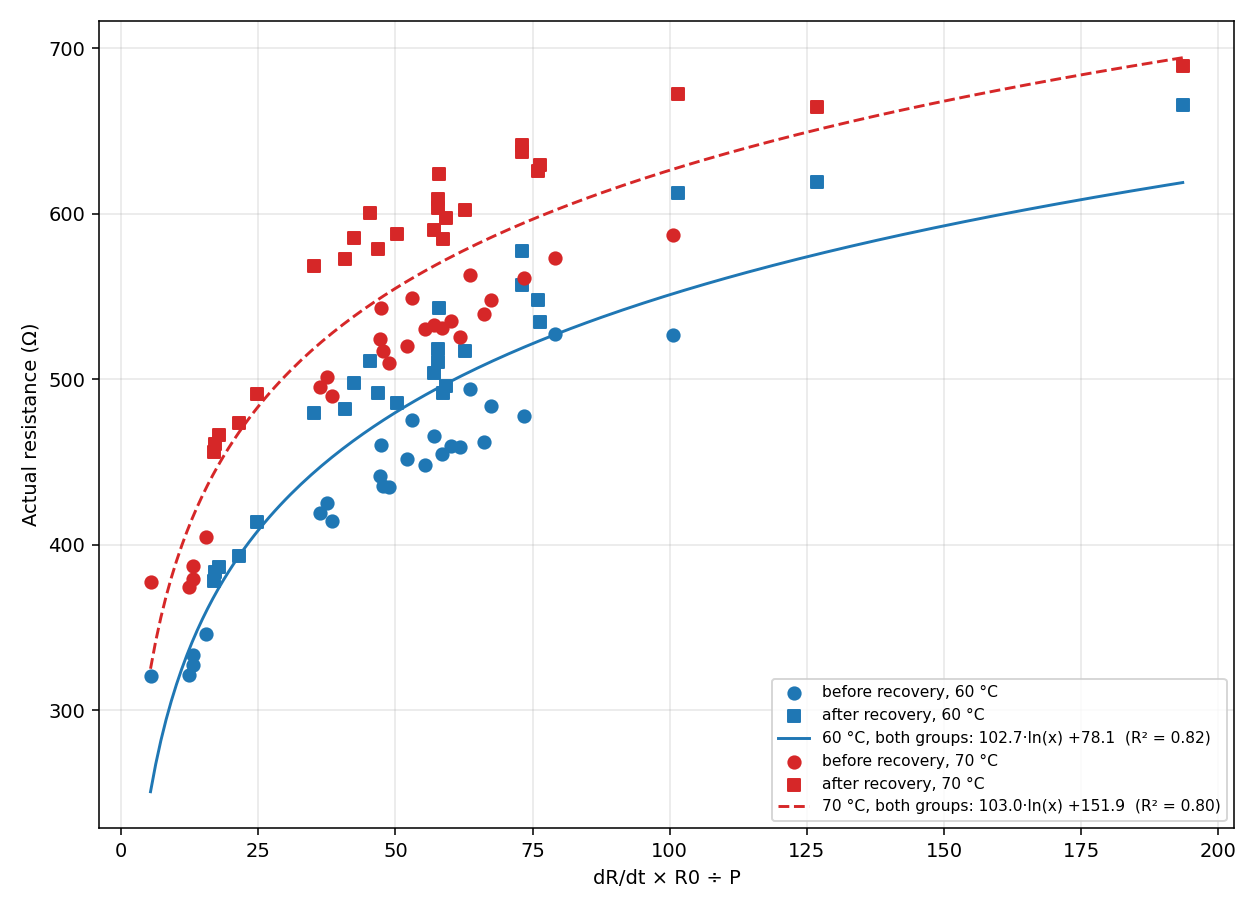
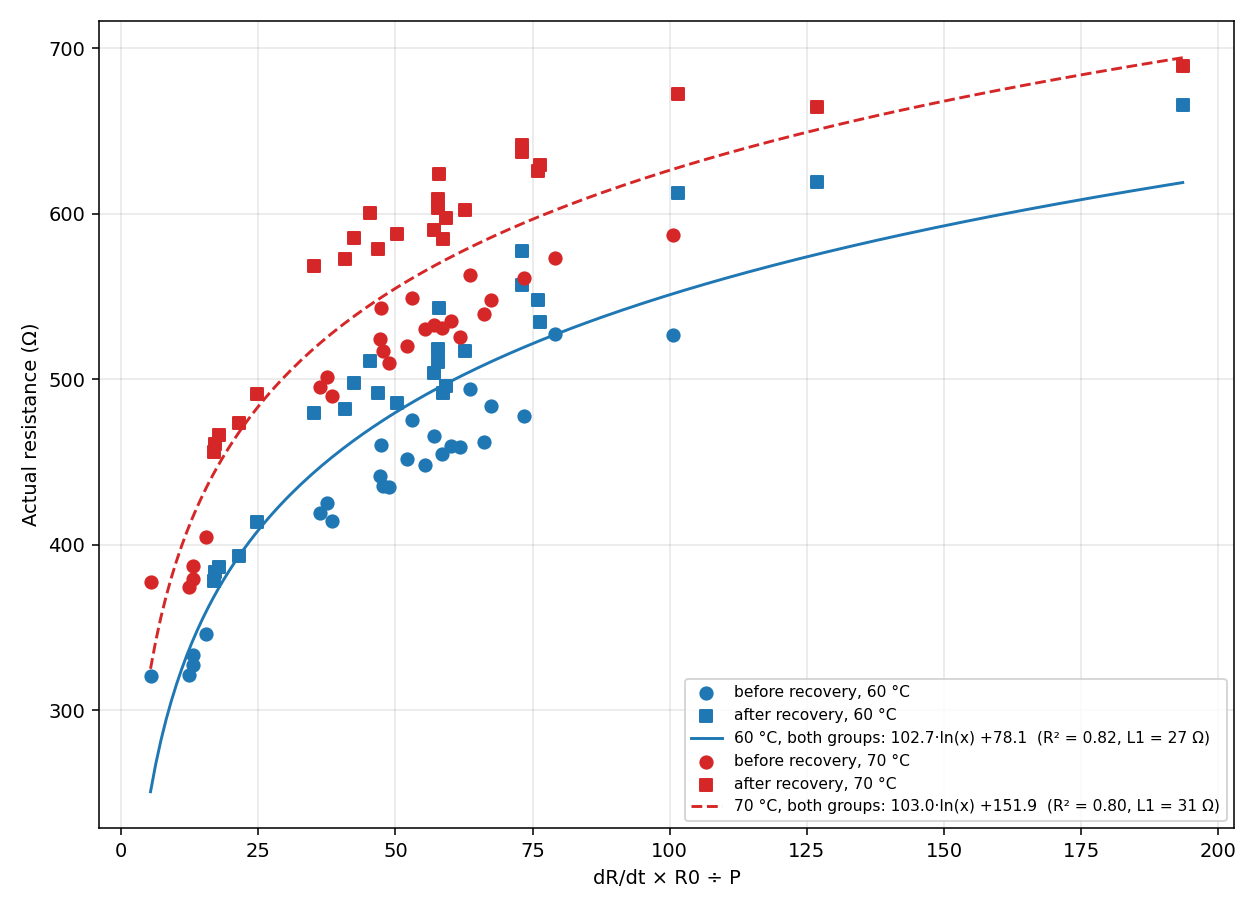
recovery: L1 in graph legend

Changed region(s): [[0.5262, 0.7385, 0.9595, 0.8923]]

diff --git a/IR+T_Couple+reist 16 Oct/output/recovery_R60_R70_ln.py b/IR+T_Couple+reist 16 Oct/output/recovery_R60_R70_ln.py
@@ -11,8 +11,8 @@ for deg, ls, c in ((60, "-", "C0"), (70, "--", "C3")):
     for g, (_, mk) in G.items():
         s = d[d.group == g]
         ax.scatter(s.x, s[f"actual_R{deg}_ohm"], marker=mk, s=40, c=c, label=f"{g}, {deg} °C", zorder=3)
-    y = d[f"actual_R{deg}_ohm"]; k = np.polyfit(np.log(d.x), y, 1); r2 = np.corrcoef(np.log(d.x), y)[0, 1] ** 2
+    y = d[f"actual_R{deg}_ohm"]; k = np.polyfit(np.log(d.x), y, 1); r2 = np.corrcoef(np.log(d.x), y)[0, 1] ** 2; l1 = (np.polyval(k, np.log(d.x)) - y).abs().mean()
     xs = np.linspace(d.x.min(), d.x.max(), 200)
-    ax.plot(xs, np.polyval(k, np.log(xs)), c=c, ls=ls, label=f"{deg} °C, both groups: {k[0]:.1f}·ln(x) {k[1]:+.1f}  (R² = {r2:.2f})")
+    ax.plot(xs, np.polyval(k, np.log(xs)), c=c, ls=ls, label=f"{deg} °C, both groups: {k[0]:.1f}·ln(x) {k[1]:+.1f}  (R² = {r2:.2f}, L1 = {l1:.0f} Ω)")
 ax.set_xlabel("dR/dt × R0 ÷ P"); ax.set_ylabel("Actual resistance (Ω)"); ax.grid(alpha=.3); ax.legend(fontsize=8)
 fig.tight_layout(); fig.savefig("recovery_R60_R70_vs_RdRdtP.png", dpi=140)
